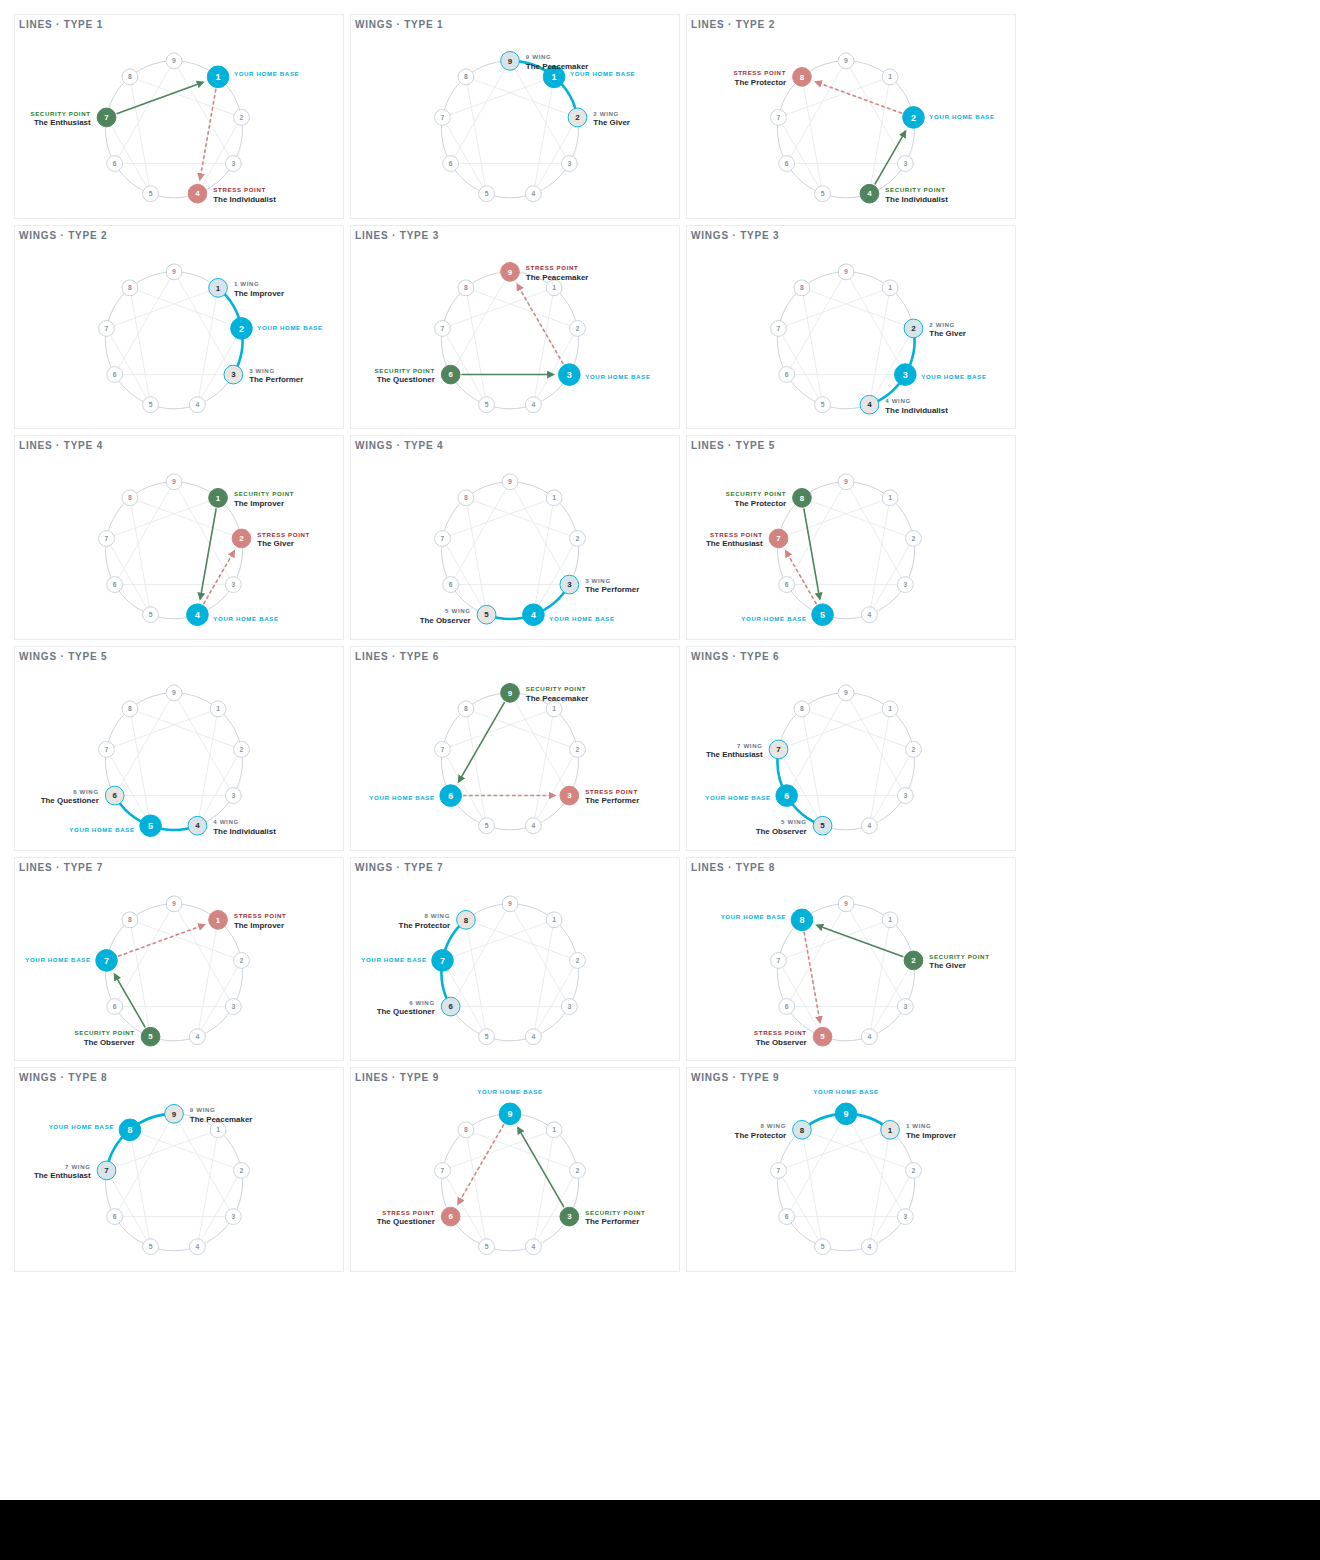
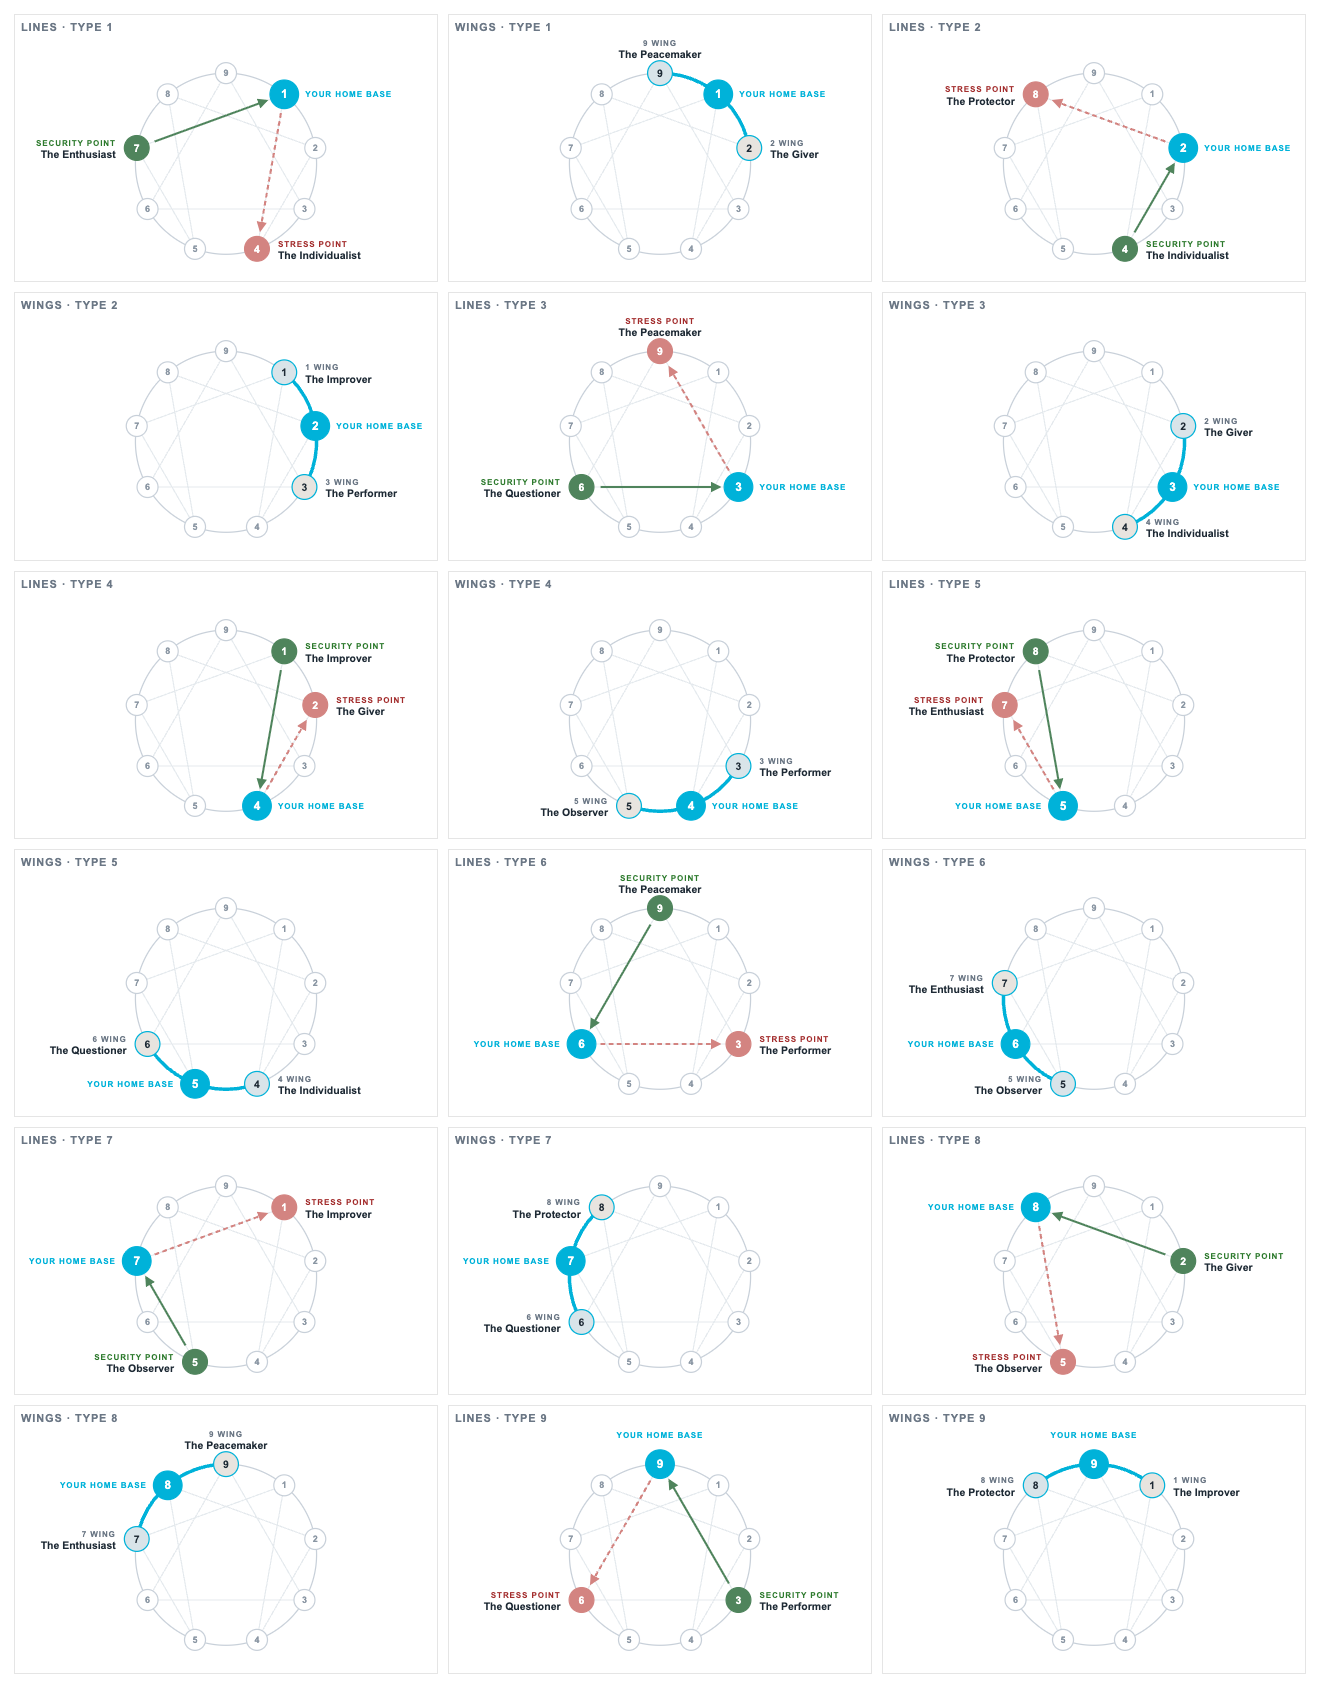
PR 1: add the 430x252 client diagram variant and a general label-placement rule
Adds 'client-wings' and 'client-lines' to buildEnneagramSVG as a new branch
before the terminal throw. Add-only: no existing line changes, so the coach
report's 500x500 output is byte-identical by construction.

The new geometry lives in its own constants (CLIENT_NODES, CLIENT_GEO) rather
than extending SVG_NODES. That separation is load-bearing: every 500x500 branch
iterates Object.keys(SVG_NODES), so a key added there would silently add a node
to the coach wheel. For the same reason the new branch uses its own node/label
helpers instead of _svgNode/_svgLabel, which dereference SVG_NODES internally.
Values are ported verbatim from the measured reference implementation per design
spec v3.0 section 3.5, not re-derived.

Fixes a label collision the spec asserted did not exist. Section 3.5 claims "54
labels, zero clipped, minimum label-to-label gap 27.7px", but in WINGS TYPE 1
the 9-wing label ran through the home node and collided with its label. Cause:
the "place above" exception applied only to the home node, so a non-home node at
the top of the circle fell through to horizontal placement and defaulted right —
and Type 1 is the only type whose home node sits immediately clockwise of the
top. The rule is now general (|dx| below a threshold places the label above,
centred) rather than special-casing a type.

Rendering all 18 then surfaced a second bug the arithmetic had not: with only
27px of headroom above a resource node, a two-line stacked label pushed the
[…]

diff --git a/app/renderer.js b/app/renderer.js
@@ -1045,6 +1045,97 @@ const SVG_TRIANGLE = [[9, 6], [6, 3], [3, 9]];
 const SVG_FLOW = new Set([...SVG_HEXAD, ...SVG_TRIANGLE].map(([a, b]) => `${a}-${b}`));
 const _flowDir = (x, y) => (SVG_FLOW.has(`${x}-${y}`) ? [x, y] : [y, x]);
 
+// ── CLIENT REPORT v3 diagram geometry (430 × 252) ────────────────────────────
+// Deliberately separate from SVG_NODES above. Do NOT merge the two tables: every
+// 500×500 variant iterates Object.keys(SVG_NODES), so a key added there appears on the
+// coach wheel. Values are ported verbatim from the measured reference implementation,
+// not derived (design spec v3.0 §3.5).
+const CLIENT_GEO = { vw: 430, vh: 252, cx: 215, cy: 135, r: 95, rHome: 15, rResource: 13, rInactive: 11, dx: 22 };
+const CLIENT_ANGLES = { 9: -90, 1: -50, 2: -10, 3: 30, 4: 70, 5: 110, 6: 150, 7: 190, 8: 230 };
+const CLIENT_NODES = Object.fromEntries(Object.entries(CLIENT_ANGLES).map(([k, deg]) => {
+  const rad = deg * Math.PI / 180;
+  return [k, [+(CLIENT_GEO.cx + CLIENT_GEO.r * Math.cos(rad)).toFixed(1),
+              +(CLIENT_GEO.cy + CLIENT_GEO.r * Math.sin(rad)).toFixed(1)]];
+}));
+const CLIENT_TRIANGLE = [9, 6, 3, 9];
+const CLIENT_HEXAGON = [1, 4, 2, 8, 5, 7, 1];
+
+function _clientTrim(p1, p2, t = 20) {
+  const dx = p2[0] - p1[0], dy = p2[1] - p1[1];
+  const len = Math.hypot(dx, dy) || 1, ux = dx / len, uy = dy / len;
+  return [[+(p1[0] + ux * t).toFixed(1), +(p1[1] + uy * t).toFixed(1)],
+          [+(p2[0] - ux * t).toFixed(1), +(p2[1] - uy * t).toFixed(1)]];
+}
+function _clientMarker(id, fill) {
+  return `<marker id="${id}" viewBox="0 0 10 10" refX="8" refY="5" markerWidth="5" markerHeight="5" orient="auto-start-reverse"><path d="M 0 0 L 10 5 L 0 10 z" fill="${fill}"/></marker>`;
+}
+// Arc along the circle between two adjacent nodes (wings page), rather than a chord.
+function _clientArc(from, to) {
+  const a = CLIENT_NODES[from], b = CLIENT_NODES[to];
+  const d1 = (CLIENT_ANGLES[from] % 360 + 360) % 360, d2 = (CLIENT_ANGLES[to] % 360 + 360) % 360;
+  const sweep = ((d2 - d1 + 360) % 360) < 180 ? 1 : 0;
+  return `<path d="M ${a[0]},${a[1]} A ${CLIENT_GEO.r},${CLIENT_GEO.r} 0 0,${sweep} ${b[0]},${b[1]}" fill="none" stroke="#00B2D9" stroke-width="3.6" stroke-linecap="round"/>`;
+}
+
+/**
+ * Label placement for the v3 client diagrams.
+ *
+ * The rule is general, not per-type: place the label horizontally on the side the node
+ * sits relative to centre, EXCEPT when the node is at the top or bottom of the circle
+ * (|dx| below a threshold), where there is no meaningful side — there the label stacks
+ * above the node, centred.
+ *
+ * That exception previously applied only to the home node, so a non-home node at the top
+ * fell through to horizontal placement and defaulted right. For Type 1 — the only type
+ * whose home node sits immediately clockwise of the top — the 9-wing label then ran
+ * straight through the home node and collided with its label. Generalising the exception
+ * fixes that case without special-casing any type, and leaves Type 9 (home at top,
+ * already stacked above) byte-identical.
+ */
+function _clientLabel(node, nodeR, { eyebrow, name, tone }) {
+  const [x, y] = CLIENT_NODES[node];
+  const dxUnit = (x - CLIENT_GEO.cx) / CLIENT_GEO.r;
+  const EPS = 0.2;                       // |dx| below this means "top or bottom of circle"
+  const esc9 = (s) => esc(String(s));
+
+  const EYE = `font-family="Arial" font-size="8.5" font-weight="bold" fill="${tone}" letter-spacing="0.9"`;
+  const NAME = `font-family="Arial" font-size="11" font-weight="bold" fill="#1E2A35"`;
+
+  // Top/bottom of circle: no meaningful left/right side — stack the label outward.
+  //
+  // Offsets are derived from the node radius rather than fixed, because there are only
+  // 40px of headroom above the circle (cy = r + 40) and a two-line label does not fit a
+  // naive gap: the eyebrow ascends past y=0 and Chromium clips it. Anchoring the LAST
+  // line 3px off the node edge and stacking upward keeps both lines on canvas with the
+  // >= 5px edge clearance §3.5 requires. Verified by rendering all 18, not by arithmetic.
+  if (Math.abs(dxUnit) < EPS) {
+    const above = (y - CLIENT_GEO.cy) < 0;
+    if (!above) {
+      const first = +(y + nodeR + 16).toFixed(1);
+      let out = `<text x="${x}" y="${first}" text-anchor="middle" ${EYE}>${esc9(eyebrow)}</text>`;
+      if (name) out += `<text x="${x}" y="${+(first + 13).toFixed(1)}" text-anchor="middle" ${NAME}>${esc9(name)}</text>`;
+      return out;
+    }
+    // 12px stack gap (not the 13px used for horizontal labels): with only 27px of
+    // headroom above a resource node, 13px puts the eyebrow's cap-height at 4.9px from
+    // the canvas edge, just under the 5px minimum clearance §3.5 specifies.
+    const nameY = +(y - nodeR - 3).toFixed(1);          // sits just above the node
+    const eyeY = +(name ? nameY - 12 : y - nodeR - 12).toFixed(1);
+    let out = `<text x="${x}" y="${eyeY}" text-anchor="middle" ${EYE}>${esc9(eyebrow)}</text>`;
+    if (name) out += `<text x="${x}" y="${nameY}" text-anchor="middle" ${NAME}>${esc9(name)}</text>`;
+    return out;
+  }
+
+  // Otherwise horizontal, offset DX from the node edge, on the side away from centre.
+  const right = dxUnit > 0;
+  const tx = +(x + (right ? nodeR + CLIENT_GEO.dx - nodeR : -(nodeR + CLIENT_GEO.dx - nodeR))).toFixed(1);
+  const anchorAttr = right ? '' : ' text-anchor="end"';
+  const eyeY = name ? +(y - 2).toFixed(1) : +(y + 3).toFixed(1);
+  let out = `<text x="${tx}" y="${eyeY}"${anchorAttr} ${EYE}>${esc9(eyebrow)}</text>`;
+  if (name) out += `<text x="${tx}" y="${+(y + 11).toFixed(1)}"${anchorAttr} ${NAME}>${esc9(name)}</text>`;
+  return out;
+}
+
 function _trim(p1, p2, t) {
   const dx = p2[0] - p1[0], dy = p2[1] - p1[1];
   const len = Math.hypot(dx, dy) || 1, ux = dx / len, uy = dy / len;
@@ -1172,6 +1263,67 @@ function buildEnneagramSVG({ type, variant }) {
     }
     return open + `<circle cx="250" cy="250" r="210" fill="none" stroke="#C8C8C8" stroke-width="8"/>`
       + wingConn + stressLine + secLine + nodes + `</svg>`;
+  }
+
+  // ── CLIENT REPORT v3 — 'client-wings' / 'client-lines' (430 × 252) ──────────
+  // A second, independent geometry for the v3 client report. It deliberately does NOT
+  // reuse `open`, SVG_NODES, _svgNode or _svgLabel: those are bound to the 500×500 space
+  // that the coach report renders from, and every 500×500 branch above iterates
+  // Object.keys(SVG_NODES), so adding a key there would silently add a node to the coach
+  // wheel. Everything below is additive; nothing above this line is touched.
+  //
+  // Geometry is ported verbatim from the measured reference implementation
+  // (docs/mockup/claude_The_Peacemaker_Page_Wings_v1.html) per design spec v3.0 §3.5,
+  // which is explicit that label positions must not be re-derived from a formula without
+  // rendering — three separate bugs were found that way during design.
+  if (variant === 'client-wings' || variant === 'client-lines') {
+    const N = CLIENT_NODES, C = CLIENT_GEO;
+    const ring = `<circle cx="${C.cx}" cy="${C.cy}" r="${C.r}" fill="none" stroke="#C8D0D9" stroke-width="1.3"/>`;
+    const tri = `<polyline points="${CLIENT_TRIANGLE.map(i => `${N[i][0]},${N[i][1]}`).join(' ')}" fill="none" stroke="#E4E9ED" stroke-width="1.2"/>`;
+    const hex = `<polyline points="${CLIENT_HEXAGON.map(i => `${N[i][0]},${N[i][1]}`).join(' ')}" fill="none" stroke="#E4E9ED" stroke-width="1.2"/>`;
+
+    let art = '', labels = '', defs = '';
+    const labelled = {};   // node -> { eyebrow, name, tone }
+
+    if (variant === 'client-wings') {
+      // Cyan arcs from home to each wing, drawn along the circle rather than across it.
+      art = wings.map(w => _clientArc(home, w)).join('');
+      labelled[home] = { eyebrow: 'YOUR HOME BASE', name: null, tone: '#00B2D9' };
+      wings.forEach(w => { labelled[w] = { eyebrow: `${w} WING`, name: TYPE_NAMES[w], tone: '#6B7785' }; });
+    } else {
+      // Stress: home → stress, WITH the arrow. Security: security → home, WITH the arrow,
+      // so the client reaches their security point by moving AGAINST it (spec §3.6).
+      defs = `<defs>${_clientMarker('aS', '#D38481')}${_clientMarker('aG', '#4F845C')}</defs>`;
+      const [s1, s2] = _clientTrim(N[home], N[stress]);
+      const [g1, g2] = _clientTrim(N[security], N[home]);
+      art = `<line x1="${s1[0]}" y1="${s1[1]}" x2="${s2[0]}" y2="${s2[1]}" stroke="#D38481" stroke-width="2.2" stroke-dasharray="5,3.5" marker-end="url(#aS)"/>`
+          + `<line x1="${g1[0]}" y1="${g1[1]}" x2="${g2[0]}" y2="${g2[1]}" stroke="#4F845C" stroke-width="2.2" marker-end="url(#aG)"/>`;
+      labelled[home] = { eyebrow: 'YOUR HOME BASE', name: null, tone: '#00B2D9' };
+      labelled[stress] = { eyebrow: 'STRESS POINT', name: TYPE_NAMES[stress], tone: '#A32D2D' };
+      labelled[security] = { eyebrow: 'SECURITY POINT', name: TYPE_NAMES[security], tone: '#2D7A2D' };
+    }
+
+    let nodes = '';
+    for (const k of Object.keys(N)) {
+      const i = +k;
+      let r = C.rInactive, fill = '#FFFFFF', stroke = '#C8D0D9', txt = '#8A96A3', fs = 9.5;
+      if (i === home) { r = C.rHome; fill = '#00B2D9'; stroke = '#00B2D9'; txt = '#FFFFFF'; fs = 12.5; }
+      else if (variant === 'client-wings' && wings.includes(i)) {
+        r = C.rResource; stroke = '#00B2D9'; txt = '#1E2A35'; fs = 11;
+        fill = i === wings[0] ? '#D9E4E9' : '#E8E4DF';
+      } else if (variant === 'client-lines' && i === stress) {
+        r = C.rResource; fill = '#D38481'; stroke = '#D38481'; txt = '#FFFFFF'; fs = 11;
+      } else if (variant === 'client-lines' && i === security) {
+        r = C.rResource; fill = '#4F845C'; stroke = '#4F845C'; txt = '#FFFFFF'; fs = 11;
+      }
+      const [x, y] = N[i];
+      nodes += `<circle cx="${x}" cy="${y}" r="${r}" fill="${fill}" stroke="${stroke}" stroke-width="1.3"/>`
+             + `<text x="${x}" y="${(y + fs * 0.35).toFixed(1)}" text-anchor="middle" font-family="Arial" font-size="${fs}" font-weight="bold" fill="${txt}">${i}</text>`;
+      if (labelled[i]) labels += _clientLabel(i, r, labelled[i]);
+    }
+
+    return `<svg viewBox="0 0 ${C.vw} ${C.vh}" xmlns="http://www.w3.org/2000/svg">`
+      + defs + ring + tri + hex + art + nodes + labels + `</svg>`;
   }
 
   throw new Error(`buildEnneagramSVG: unknown variant "${variant}"`);
